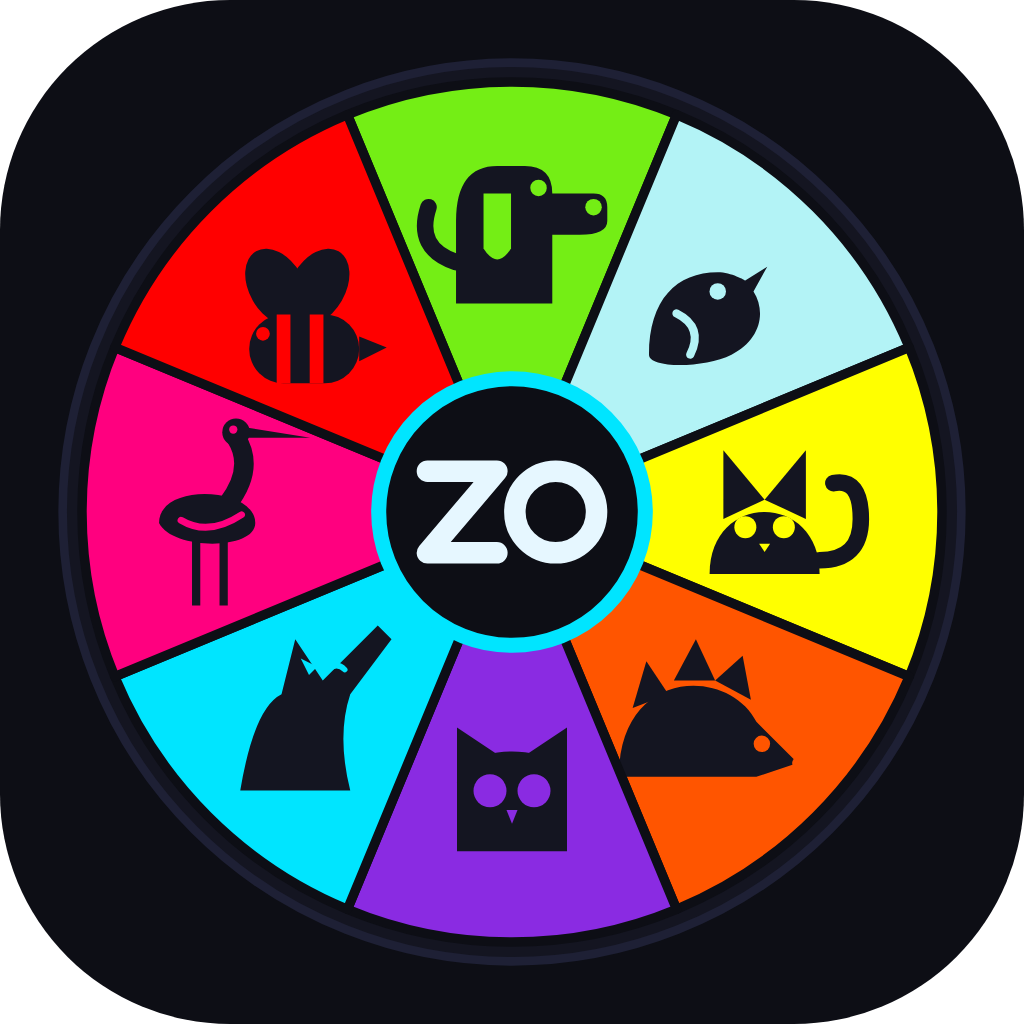
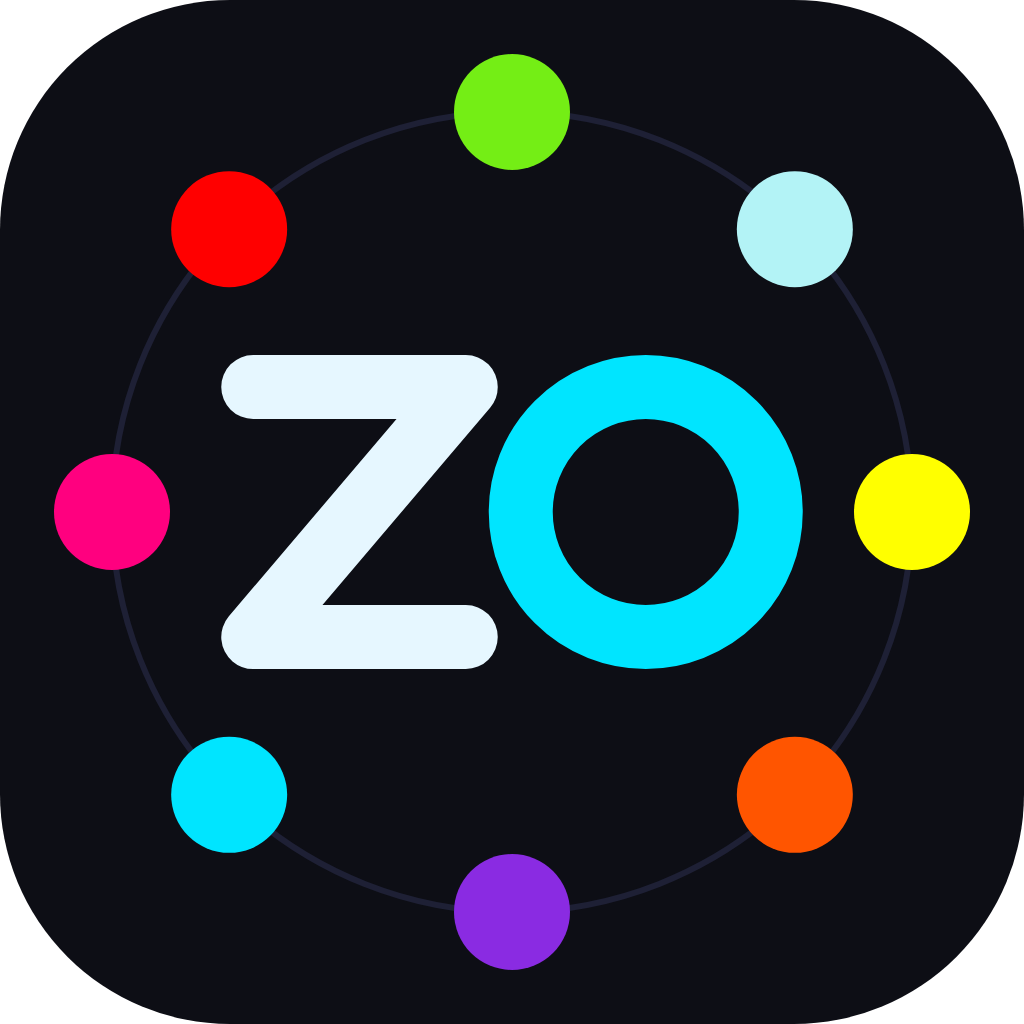
feat(icona): la C (monogramma) è l'icona predefinita, tutte e quattro pronte in docs/brand/icona/scelta
Claude-Session: https://claude.ai/code/session_01GNHEDuYaztcxhCo4JABFgE

diff --git a/ZibaldOne/docs/brand/icona/README.md b/ZibaldOne/docs/brand/icona/README.md
@@ -1,8 +1,18 @@
 # Icona dell'app
 
-L'icona in uso è la proposta **A · ruota**: gli otto spicchi con i disegni delle mascotte (ZibaldOne/SVG, ripresi senza modifiche) e il monogramma ZO al centro, su sfondo `#0D0E15`.
+Alex le vuole tenere tutte e quattro. L'icona predefinita è la **C · monogramma** (ZO grande con otto pallini, uno per mascotte, su sfondo `#0D0E15`). Le altre sono la A (ruota con anello), la B (ruota con spicchi staccati) e la D (tessere 3x3).
 
+## Dove sta cosa
 - `src/assets/icon.png` (1024) → icona di Windows e di default per `flet build`.
 - `src/assets/icon_android.png` → primo piano trasparente dell'icona adattiva di Android; lo sfondo è `icon_background` in `pyproject.toml`.
-- `svg/` e `png/` → sorgenti, misure 1024/512/256/128/64/48, `icon.ico`, primo piano e sfondo Android, e le proposte B, C, D.
-- Per cambiare icona basta sostituire i due PNG in `src/assets`.
+- `scelta/A|B|C|D/` → i due PNG pronti di ogni proposta (`icon.png`, `icon_android.png`).
+- `svg/` e `png/` → sorgenti, misure 1024/512/256/128/64/48, `icon.ico`, sfondo Android.
+- `proposte/` → le proposte di Alex (Gemini) e le anteprime delle mie.
+
+## Come si sceglie
+Oggi, a mano: copiare i due PNG di `scelta/<lettera>/` in `src/assets` e rifare la build.
+
+**Da fare, non ancora implementato.** La scelta andrà nelle Impostazioni, nella parte **Informazioni · ZibaldOne** (`ui/views/settings.py`, `about`), accanto alle mascotte: una riga «Icona» con le quattro anteprime. Limiti da tenere presenti:
+- l'icona installata (exe di Windows, icona del lancio su Android) è fissa dentro la build: l'app non può cambiarla mentre gira. Su Android servirebbe una build con quattro «alias» del lancio, su Windows un collegamento con l'icona scelta;
+- cambia a runtime solo l'icona nella finestra e il logo mostrato nell'app.
+Prima di costruirla va deciso con Alex se la scelta vale solo per il logo nell'app o anche per l'icona installata.
